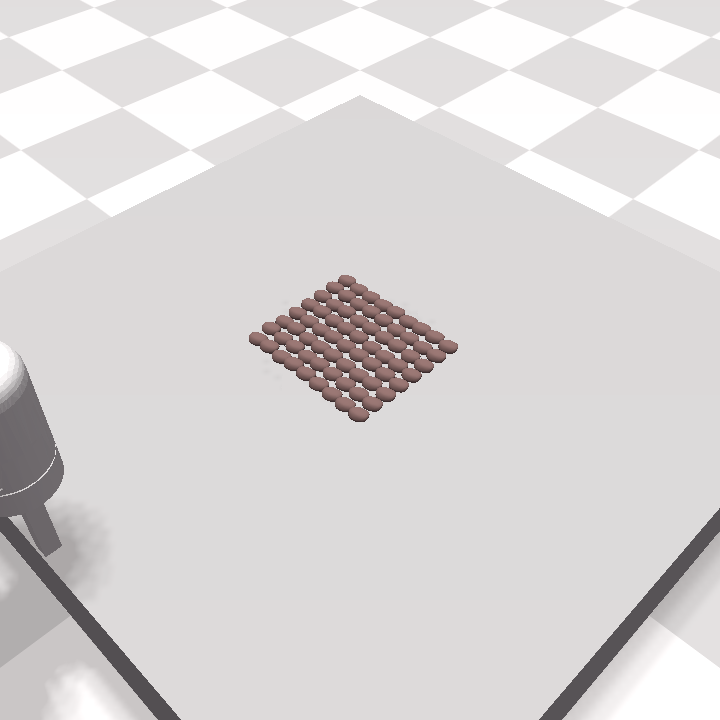
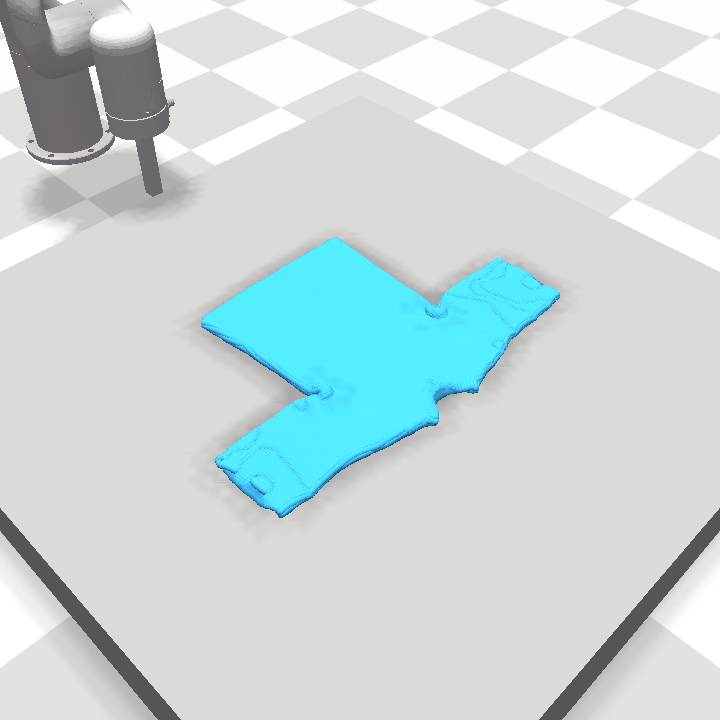
add granular cases. TODO: debug cloth.

diff --git a/flex_env.py b/flex_env.py
@@ -211,8 +211,8 @@ class FlexEnv(gym.Env):
     
     def init_scene(self):
         if self.obj == 'cloth':
-            cloth_pos = [-0.6, 0, -0.6]
-            cloth_size = [100, 100]
+            cloth_pos = [-1., 0, -1.]
+            cloth_size = [150, 150]
             # [0.85, 0.90, 0.90]
             stiffness = [1.5, 1.5, 1.5] # [stretch, bend, shear]
             cloth_mass = 1.5
@@ -229,18 +229,21 @@ class FlexEnv(gym.Env):
                 flip_mesh])
             zeros = np.array([0])
             pyflex.set_scene(29, self.scene_params, zeros.astype(np.float64), zeros, zeros, zeros, zeros, 0)
+        
         elif self.obj == 'shirt':
             path = "cloth3d/Tshirt2.obj"
             retval = load_cloth(path)
             mesh_verts = retval[0]
             mesh_faces = retval[1]
             mesh_stretch_edges, mesh_bend_edges, mesh_shear_edges = retval[2:]
+
+            mesh_verts = mesh_verts * 3
             
-            cloth_pos = [0, 0, 0]
+            cloth_pos = [-0.5, 0, 0]
             cloth_size = [100, 100]
             stiffness = [0.85, 0.90, 0.90] # [stretch, bend, shear]
             cloth_mass = 1.5
-            particle_r = 0.01
+            particle_r = 0.02
             render_mode = 1
             flip_mesh = 0
             self.scene_params = np.array([
@@ -261,15 +264,17 @@ class FlexEnv(gym.Env):
                     mesh_shear_edges.reshape(-1),
                     mesh_faces.reshape(-1),
                     0)
+        
         elif self.obj == 'rope':
             scale = [30., 30., 30.]       # x, y, z
-            trans = [0., 0.1, 0.]       # x, y, z
+            trans = [-1.5, 1., 0.]       # x, y, z
             # stiffness = 0.03 + (y - 4) * 0.04
-            cluster = [1.5, 0., 0.55]    # spacing, radius, stiffness
+            cluster = [1.3, 0., 0.55]    # spacing, radius, stiffness
             draw_mesh = 1
             scene_params = np.array(scale + trans + cluster + [draw_mesh])
             temp = np.array([0])
             pyflex.set_scene(26, scene_params, temp.astype(np.float64), temp, temp, temp, temp, 0) 
+        
         elif self.obj == 'carrots':
             global_scale = 5
             np.random.seed(0)
@@ -326,13 +331,12 @@ class FlexEnv(gym.Env):
 
             temp = np.array([0])
             pyflex.set_scene(22, self.scene_params, temp.astype(np.float64), temp, temp, temp, temp, 0) 
+        
         elif self.obj == 'coffee':
             global_scale = 4
             scale = 0.2 * global_scale / 8.0
             x = -0.9 * global_scale / 8.0
-            # x = 0
             y = 0.5
-            # z = 0
             z = -0.9 * global_scale / 8.0
             staticFriction = 0.0
             dynamicFriction = 1.0
@@ -353,6 +357,25 @@ class FlexEnv(gym.Env):
             self.scene_params = np.array([x, y, z, size, obj_type])
             temp = np.array([0])
             pyflex.set_scene(25, self.scene_params, temp.astype(np.float64), temp, temp, temp, temp, 0) 
+        
+        elif self.obj == 'power_drill':
+            x = 0.
+            y = 1. 
+            z = -0.5
+            size = 1.
+            obj_type = 35
+            self.scene_params = np.array([x, y, z, size, obj_type])
+            temp = np.array([0])
+            pyflex.set_scene(25, self.scene_params, temp.astype(np.float64), temp, temp, temp, temp, 0) 
+        
+        elif self.obj == 'multi_ycb':
+            x = 0.
+            y = 0.
+            z = 0.
+            size = 1.
+            self.scene_params = np.array([x, y, z, size])
+            temp = np.array([0])
+            pyflex.set_scene(28, self.scene_params, temp.astype(np.float64), temp, temp, temp, temp, 0) 
 
 
         else:
@@ -364,7 +387,10 @@ class FlexEnv(gym.Env):
         
         # add "table"
         wall_height = 0.5
-        halfEdge = np.array([2., wall_height, 2.])
+        if self.obj == 'multi_ycb':
+            halfEdge = np.array([4., wall_height, 4.])
+        else:
+            halfEdge = np.array([2., wall_height, 2.])
         # center = np.array([self.global_scale/2.0-3., 0.0, 0.0])
         center = np.array([0.0, 0.0, 0.0])
         quats = quatFromAxisAngle(axis=np.array([0., 1., 0.]), angle=0.)

diff --git a/data_gen.py b/data_gen.py
@@ -58,7 +58,7 @@ def gen_data(info):
                 # u = u[0, 0] # starting and ending positions of actions
                 # u = [2, 2, -2, -2]
                 u = [2, 0, -1, 0]
-                # u = [0, 2, 0, -2]
+                # u = [0, 2, 0, -1]
 
                 # step
                 img = env.step(u)
